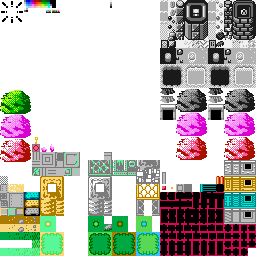
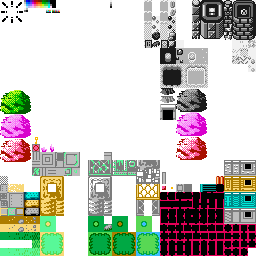
tile fixes

Changed region(s): [[0.6875, 0.0, 1.0, 0.625], [0.5625, 0.0, 0.625, 0.1875]]

diff --git a/index.html b/index.html
@@ -913,6 +913,7 @@
         }
     },250);
     
+    //read in room data from image
 	function parseRoomData(x,y, mini) {
 		var rawData = lctx.getImageData(x,y,20,16).data;
 		var roomMap = [[],[],[]];
@@ -1607,7 +1608,7 @@
         //console.log(JSON.stringify(cards));
         
         //assign obstacle configs
-        for (i=0; i<map.length; i++) {
+        /*for (i=0; i<map.length; i++) {
 			for (j=0; j<map[i].length; j++) {
                 if (map[i][j] != 0 && map[i][j].obs == -1 && !(i == mapLoc.y && j == mapLoc.x)) {
                     if (gen) {
@@ -1621,7 +1622,7 @@
                     map[i][j].obs = buildConfig('config_'+rand);
                 }
             }
-        }
+        }*/
         
         loadRoom(map[mapLoc.y][mapLoc.x]);
         lvlComplete = false;
@@ -1685,20 +1686,8 @@
     //draw a sprite
 	function drawSprite(sprite,x,y,quick) {
         
-        if (sprite+wallSet == 28 && blink == true) {
-            sprite = 60-wallSet;
-        }
-        if (sprite+wallSet == 92 && blink == true) {
-            sprite = 124-wallSet;
-        }
-        if (sprite+wallSet == 27 && blink == true) {
-            sprite = 59-wallSet;
-        }
-        if (sprite+wallSet == 123 && blink == true) {
-            sprite = 155-wallSet;
-        }
-        if (sprite+wallSet == 224 && blink == true) {
-            sprite = 256-wallSet;
+        if (sprite == 256 && blink == true) {
+            sprite = 288;
         }
         sX = Math.floor((sprite-1)/(sheetWidth/8))*8;
 		sY = ((sprite-1)%(sheetWidth/8))*8;
@@ -1994,7 +1983,7 @@
             for (var i=0; i<currLvl.map[0].length; i++) {
                 for (var j=0; j<currLvl.map[0][i].length; j++) {
                     if (currLvl.map[0][i][j] !=0) {
-						drawSprite(currLvl.map[0][i][j]-wallSet,roomDrawX+Math.floor((j*8)),roomDrawY+Math.floor((i*8)));
+						drawSprite(currLvl.map[0][i][j],roomDrawX+Math.floor((j*8)),roomDrawY+Math.floor((i*8)));
 					}
                 }
             }
